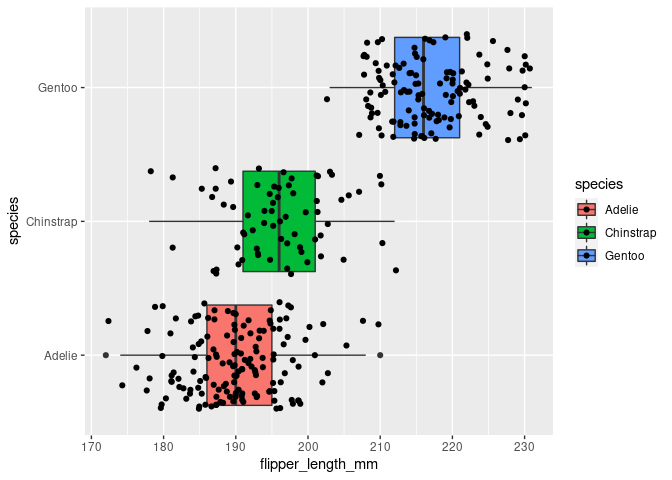
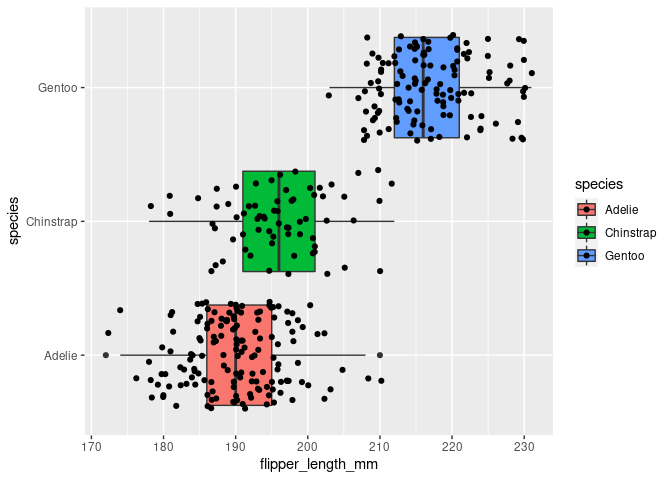
Activity02-Histograms

diff --git a/activity02-ggplot2-intro.md b/activity02-ggplot2-intro.md
@@ -230,7 +230,7 @@ methods to try to create this plot. A hint, all `geom_*` have a
 
 ``` r
 ggplot(data = penguins) +
- geom_boxplot(mapping = aes(x = flipper_length_mm, y = species))+ geom_jitter(mapping = aes(x = flipper_length_mm, y = species, color = species))
+ geom_boxplot(mapping = aes(x = flipper_length_mm, y = species))+ geom_jitter(mapping = aes(x = flipper_length_mm, y = species,color=species))
 ```
 
     ## Warning: Removed 2 rows containing non-finite values (stat_boxplot).
@@ -244,7 +244,9 @@ aesthetics mapped in the different layers. For example, how does having
 all of them mapped in the `ggplot` call compared to having these instead
 mapped in the `geom_boxplot` layer? Comment on what you notice.
 
-**Response**:
+**Response**: Having all of them mapped in the ggplot call gives color
+to both boxplot and jitterplot whereas mapping aesthetics to
+geom\_boxplot gives color only to jitterplot
 
 Knit, then stage everything listed in your **Git** pane, commit (with a
 meaningful commit message), and push to your GitHub repo. Go to GitHub
@@ -266,6 +268,39 @@ each of `species`, `sex`, and `island` (you should have three total
 graphs). Using these three graphs to discuss which of these three
 categorical variables seems to be contributing more to these two peaks
 and explain your reasoning.
+
+``` r
+ggplot(data = penguins, aes(x = bill_length_mm,fill=species))+ 
+  geom_histogram()
+```
+
+    ## `stat_bin()` using `bins = 30`. Pick better value with `binwidth`.
+
+    ## Warning: Removed 2 rows containing non-finite values (stat_bin).
+
+![](activity02-ggplot2-intro_files/figure-gfm/bill_length_by_species-1.png)<!-- -->
+
+``` r
+ggplot(data = penguins, aes(x = bill_length_mm,fill=sex))+ 
+  geom_histogram()
+```
+
+    ## `stat_bin()` using `bins = 30`. Pick better value with `binwidth`.
+
+    ## Warning: Removed 2 rows containing non-finite values (stat_bin).
+
+![](activity02-ggplot2-intro_files/figure-gfm/bill_length_by_sex-1.png)<!-- -->
+
+``` r
+ggplot(data = penguins, aes(x = bill_length_mm,fill=island))+ 
+  geom_histogram()
+```
+
+    ## `stat_bin()` using `bins = 30`. Pick better value with `binwidth`.
+
+    ## Warning: Removed 2 rows containing non-finite values (stat_bin).
+
+![](activity02-ggplot2-intro_files/figure-gfm/bill_length_by_island-1.png)<!-- -->
 
 **Response**:
 
